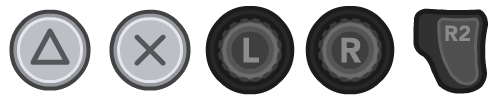
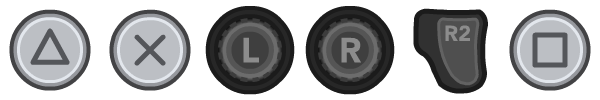
fix(prompts): add West button prompts

diff --git a/Assets/Scripts/TextBroadcast.cs b/Assets/Scripts/TextBroadcast.cs
@@ -36,6 +36,7 @@ public class TextBroadcast : MonoBehaviour
             sb.Replace("\\Shoot", $"<sprite=\"{scheme}\" name=\"West\">");
             sb.Replace("\\Flip", $"<sprite=\"{scheme}\" name=\"South\">");
             sb.Replace("\\Aim", $"<sprite=\"{scheme}\" name=\"Right Stick\">");
+            sb.Replace("\\Rear", $"<sprite=\"{scheme}\" name=\"North\">");
         }
         else
         {
@@ -44,6 +45,7 @@ public class TextBroadcast : MonoBehaviour
             sb.Replace("\\Flip", "<sprite=\"KBM Prompts\" name=\"F\">");
             sb.Replace("\\Aim", "mouse");
             sb.Replace("\\Turn", "<sprite=\"KBM Prompts\" name=\"Left\"><sprite=\"KBM Prompts\" name=\"Right\">");
+            sb.Replace("\\Rear", "<sprite=\"KBM Prompts\" name=\"R\">");
         }
 
         return sb.ToString();
